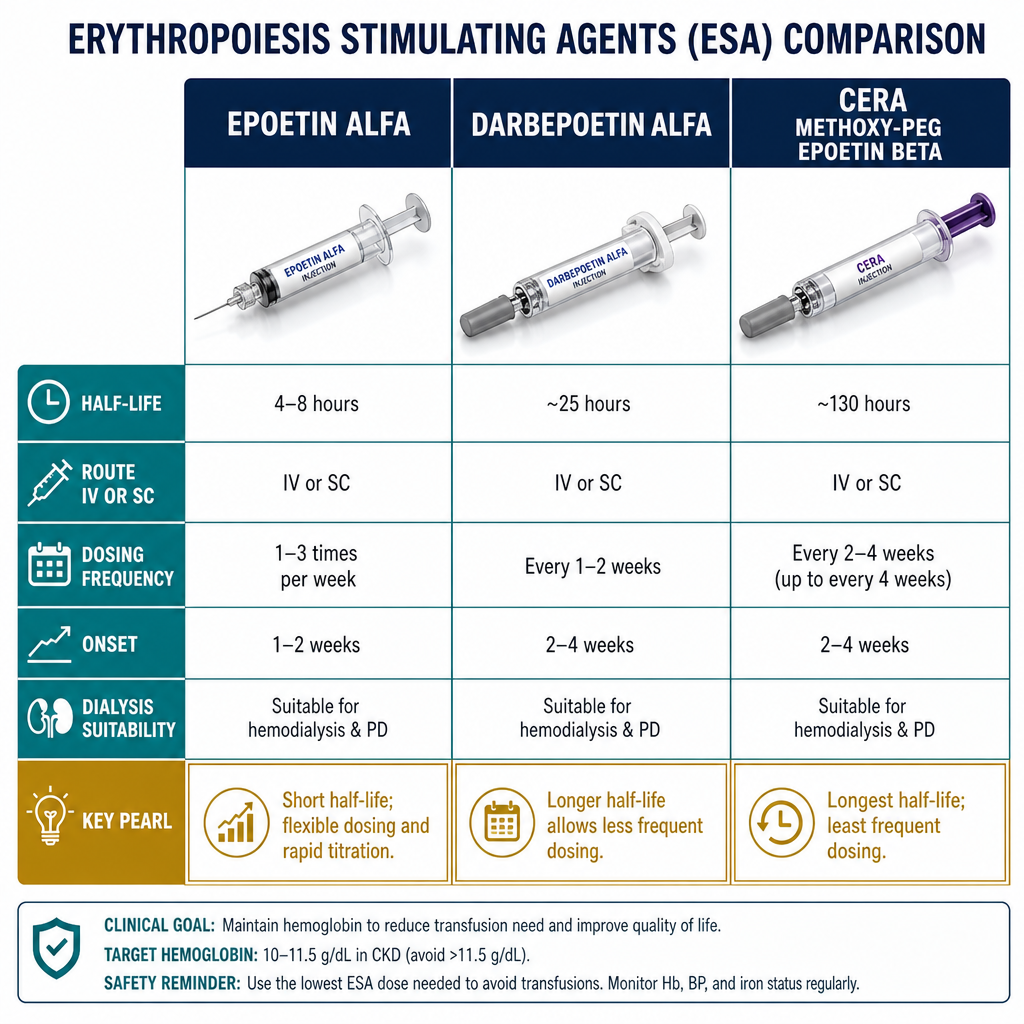
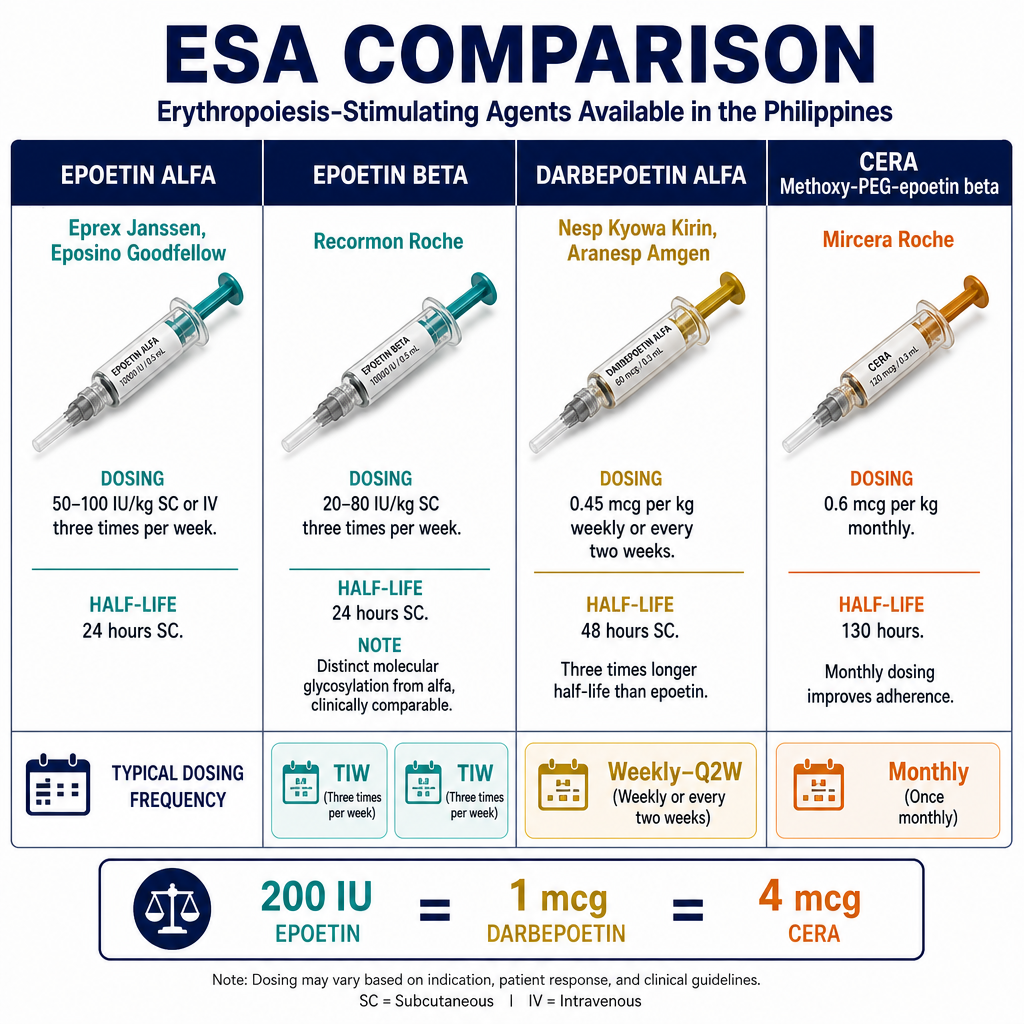
Add Recormon (epoetin beta), Nesp (darbepoetin alfa), and Ferrofer corrections
ESA agent updates throughout anemia-management.html:

Calculators (ERI Calculator + Monthly HD Checklist):
- Added Epoetin Beta — Recormon (IU) as separate dropdown option
- Updated Darbepoetin Alfa to show Nesp / Aranesp brand names
- CERA option now reads CERA — Mircera
- calcERI() and updateChecklist(): epo-beta treated same as epoetin (IU,
  no conversion needed) via || epo-beta condition
- ERI disclaimer updated to name all four agents with brand names

ESA Comparison Table (§6 ESA Therapy):
- Split combined epoetin alfa/beta row into two distinct rows:
  Epoetin Alfa (Eprex, Eposino) and Epoetin Beta (Recormon) with
  note on distinct glycosylation and unit-for-unit non-interchangeability
- Darbepoetin alfa row now shows Nesp (Kyowa Kirin) + Aranesp (Amgen)

IV Iron drug card:
- Iron Sucrose renamed from (Venofer®) to (Ferrofer® / Venofer® / Anema®)
  to reflect primary Philippines formulary branding

Patient Handout (EN/TL/CEB):
- ESA treatment section now lists brand names: Recormon, Eprex/Eposino,
  Nesp, Mircera for patient recognition at the pharmacy

ESA Comparison Image (GPT Image-2):
- Regenerated to show all four agents with Philippines brand names:
  Epoetin Alfa (Eprex/Eposino), Epoetin Beta (Recormon), Darbepoetin
  Alfa (Nesp/Aranesp), CERA (Mircera) with dosing frequency comparison

diff --git a/guides/anemia-management.html b/guides/anemia-management.html
@@ -1869,7 +1869,7 @@ function setGuideLang(lang) {
 
 <h3 style="font-size:15px;font-weight:700;color:var(--navy);margin:24px 0 14px;">IV Iron Formulations</h3>
 <div class="drug-card">
-<div class="drug-name">Iron Sucrose (Venofer®)</div>
+<div class="drug-name">Iron Sucrose (Ferrofer® / Venofer® / Anema®)</div>
 <div class="drug-row"><span class="drug-lbl">Dose (HD)</span><span class="drug-val">100 mg IV per dialysis session × 10 sessions (1,000 mg loading); maintenance 25–100 mg/session as needed</span></div>
 <div class="drug-row"><span class="drug-lbl">Dose (CKD ND/PD)</span><span class="drug-val">200–300 mg IV over 1.5–2 hours × 3–5 doses (cumulative 1,000 mg); maximum single dose 500 mg</span></div>
 <div class="drug-row"><span class="drug-lbl">Safety</span><span class="drug-val">Good; lower anaphylaxis risk than iron dextran; test dose not required</span></div>
@@ -1914,7 +1914,7 @@ function setGuideLang(lang) {
 <figure class="illus-panel" style="max-width:900px;margin:0 auto 28px;">
   <picture>
     <source srcset="../images/anemia-esa-comparison.webp" type="image/webp">
-    <img src="../images/anemia-esa-comparison.png" loading="lazy" width="1024" height="1024" alt="ESA Comparison — Epoetin Alfa vs Darbepoetin Alfa vs CERA: half-life, route, frequency, onset, dialysis suitability" style="border-radius:12px;display:block;width:100%;height:auto;">
+    <img src="../images/anemia-esa-comparison.png" loading="lazy" width="1024" height="1024" alt="ESA Comparison — Epoetin Alfa (Eprex/Eposino), Epoetin Beta (Recormon), Darbepoetin Alfa (Nesp/Aranesp), CERA (Mircera): half-life, frequency, starting dose, route, Philippines availability" style="border-radius:12px;display:block;width:100%;height:auto;">
   </picture>
 </figure>
 
@@ -1923,8 +1923,9 @@ function setGuideLang(lang) {
 <table class="tx-matrix">
 <thead><tr><th>Agent</th><th>Half-Life</th><th>Frequency</th><th>Starting Dose</th><th>Route</th><th>Notes</th></tr></thead>
 <tbody>
-<tr><td><strong>Epoetin alfa / beta</strong><br><small>(Eprex®, NeoRecormon®)</small></td><td>6–8 h IV; 24 h SC</td><td>3×/week</td><td>50–100 IU/kg SC or IV</td><td>SC preferred (ND/PD); IV (HD)</td><td>First-generation ESA; widely available; biosimilars available</td></tr>
-<tr><td><strong>Darbepoetin alfa</strong><br><small>(Aranesp®)</small></td><td>25 h IV; 48 h SC</td><td>Weekly or q2 weeks</td><td>0.45 µg/kg once weekly</td><td>SC or IV</td><td>~3× longer half-life; q2w dosing in stable patients</td></tr>
+<tr><td><strong>Epoetin Alfa</strong><br><small>Eprex® (Janssen), Eposino® (Goodfellow)</small></td><td>6–8 h IV; 24 h SC</td><td>2–3×/week</td><td>50–100 IU/kg SC or IV</td><td>SC preferred (ND/PD); IV (HD)</td><td>First-generation ESA; widely available in PH dialysis centers. Biosimilars available.</td></tr>
+<tr><td><strong>Epoetin Beta</strong><br><small>Recormon® (Roche)</small></td><td>6–8 h IV; 24 h SC</td><td>2–3×/week</td><td>20–80 IU/kg SC or IV 3×/week</td><td>SC preferred; IV during HD</td><td>Distinct glycosylation from alfa; same EPO receptor, comparable clinical efficacy. Available in 2,000 / 5,000 / 10,000 IU prefilled syringes. Not interchangeable unit-for-unit without physician confirmation.</td></tr>
+<tr><td><strong>Darbepoetin Alfa</strong><br><small>Nesp® (Kyowa Kirin), Aranesp® (Amgen)</small></td><td>25 h IV; 48 h SC</td><td>Weekly or q2 weeks</td><td>0.45 µg/kg once weekly</td><td>SC or IV</td><td>~3× longer half-life than epoetin; q2w dosing in stable patients. Nesp available in PH. Conversion: 200 IU epoetin = 1 µg darbepoetin.</td></tr>
 <tr><td><strong>Methoxy PEG-epoetin beta</strong><br><small>(CERA / Mircera®)</small></td><td>130 h SC</td><td>Monthly</td><td>0.6 µg/kg SC monthly</td><td>SC or IV</td><td>Monthly dosing → better adherence; conversion: 200 IU epoetin ≈ 1 µg darbepoetin ≈ 4 µg CERA</td></tr>
 <tr><td><strong>Biosimilar epoetin</strong></td><td>Similar to originator</td><td>3×/week</td><td>Same as reference</td><td>SC or IV</td><td>Non-interchangeable without physician oversight; PRCA risk same as originator</td></tr>
 </tbody>
@@ -2409,9 +2410,10 @@ function setGuideLang(lang) {
         <label>ESA Type</label>
         <select id="chk-esa-type" onchange="updateChecklist()">
           <option value="">Select…</option>
-          <option value="epoetin">Epoetin Alfa (IU)</option>
-          <option value="darbe">Darbepoetin Alfa (µg)</option>
-          <option value="cera">CERA / Mircera (µg)</option>
+          <option value="epoetin">Epoetin Alfa — Eprex / Eposino (IU)</option>
+          <option value="epo-beta">Epoetin Beta — Recormon (IU)</option>
+          <option value="darbe">Darbepoetin Alfa — Nesp / Aranesp (µg)</option>
+          <option value="cera">CERA — Mircera (µg)</option>
           <option value="none">Not on ESA</option>
         </select>
       </div>
@@ -2507,11 +2509,12 @@ function setGuideLang(lang) {
         <label>ESA Type</label>
         <select id="eri-esa-type" onchange="calcERI()">
           <option value="">Select ESA…</option>
-          <option value="epoetin">Epoetin Alfa (IU)</option>
-          <option value="darbe">Darbepoetin Alfa (µg)</option>
-          <option value="cera">CERA / Mircera (µg)</option>
+          <option value="epoetin">Epoetin Alfa — Eprex / Eposino (IU)</option>
+          <option value="epo-beta">Epoetin Beta — Recormon (IU)</option>
+          <option value="darbe">Darbepoetin Alfa — Nesp / Aranesp (µg)</option>
+          <option value="cera">CERA — Mircera (µg)</option>
         </select>
-        <div class="field-hint">Darbepoetin and CERA are converted to IU equivalents (1 µg = 200 IU)</div>
+        <div class="field-hint">Epoetin alfa/beta: enter IU. Darbepoetin and CERA: enter µg → converted to IU (×200)</div>
       </div>
       <div class="calc-field">
         <label id="eri-dose-label">Dose per Administration</label>
@@ -2562,7 +2565,7 @@ function setGuideLang(lang) {
       <div class="calc-verdict-text" id="eri-verdict"></div>
       <div class="calc-action-text" id="eri-action"></div>
     </div>
-    <p class="calc-disclaimer">⚕ ERI = (Total weekly ESA dose in IU ÷ weight in kg) ÷ Hgb in g/dL. Darbepoetin and CERA converted using 1 µg = 200 IU epoetin equivalent. ERI &gt;10 IU/kg/week/g/dL is associated with increased cardiovascular mortality and hospitalizations (Kalantar-Zadeh et al.). Interpret alongside clinical context. For educational use only — dosing decisions require physician assessment.</p>
+    <p class="calc-disclaimer">⚕ ERI = (Total weekly ESA dose in IU ÷ weight in kg) ÷ Hgb in g/dL. Epoetin alfa (Eprex, Eposino) and epoetin beta (Recormon) are both IU-based — enter dose directly. Darbepoetin alfa (Nesp, Aranesp) and CERA (Mircera) are entered in µg and converted using 1 µg = 200 IU epoetin equivalent. ERI &gt;10 IU/kg/week/g/dL is associated with increased cardiovascular mortality and hospitalizations (Kalantar-Zadeh et al.). Interpret alongside clinical context. For educational use only — dosing decisions require physician assessment.</p>
   </div>
 </div>
 <div class="feature-card" style="padding:28px;grid-column:1/-1;">
@@ -2739,7 +2742,7 @@ function setGuideLang(lang) {
         <div style="font-size:14px;font-weight:700;color:var(--navy);margin-bottom:10px;">💊 Your Treatment Plan</div>
         <div style="font-size:13px;color:#2c3340;line-height:1.8;">
           <p style="margin:0 0 8px;"><strong style="color:var(--teal);">Iron supplements</strong> — Oral iron tablets or IV iron drip given at dialysis. Iron feeds your red blood cells.</p>
-          <p style="margin:0 0 8px;"><strong style="color:var(--teal);">EPO injections (ESA)</strong> — A medicine that signals your bone marrow to make red blood cells, replacing what your kidneys can't produce.</p>
+          <p style="margin:0 0 8px;"><strong style="color:var(--teal);">EPO injections (ESA)</strong> — A medicine that signals your bone marrow to make red blood cells, replacing what your kidneys can't produce. Common brands: <strong>Recormon</strong> (epoetin beta), <strong>Eprex</strong> / <strong>Eposino</strong> (epoetin alfa), <strong>Nesp</strong> (darbepoetin alfa, weekly), <strong>Mircera</strong> (monthly injection).</p>
           <p style="margin:0;"><strong style="color:var(--teal);">Iron-rich foods</strong> — Red meat, dark leafy greens, beans, fortified cereals. Ask your dietitian for a kidney-safe food list.</p>
         </div>
       </div>
@@ -2784,7 +2787,7 @@ function setGuideLang(lang) {
         <div style="font-size:14px;font-weight:700;color:var(--navy);margin-bottom:10px;">💊 Ang Iyong Plano sa Paggamot</div>
         <div style="font-size:13px;color:#2c3340;line-height:1.8;">
           <p style="margin:0 0 8px;"><strong style="color:var(--teal);">Mga supplement ng iron</strong> — Oral na tablet ng iron o IV drip ng iron sa dialysis. Pinakain ng iron ang iyong mga pulang selula.</p>
-          <p style="margin:0 0 8px;"><strong style="color:var(--teal);">Mga iniksyon ng EPO (ESA)</strong> — Gamot na nagsasabi sa iyong bone marrow na gumawa ng mga pulang selula, pinapalitan ang hindi na magawa ng iyong mga bato.</p>
+          <p style="margin:0 0 8px;"><strong style="color:var(--teal);">Mga iniksyon ng EPO (ESA)</strong> — Gamot na nagsasabi sa iyong bone marrow na gumawa ng mga pulang selula, pinapalitan ang hindi na magawa ng iyong mga bato. Mga pangalang brand: <strong>Recormon</strong>, <strong>Eprex</strong>, <strong>Nesp</strong>, <strong>Mircera</strong>.</p>
           <p style="margin:0;"><strong style="color:var(--teal);">Mga pagkaing mayaman sa iron</strong> — Pulang karne, madilim na gulay, beans, fortified na cereal. Humingi sa iyong diyetisyano ng ligtas na listahan para sa bato.</p>
         </div>
       </div>
@@ -2829,7 +2832,7 @@ function setGuideLang(lang) {
         <div style="font-size:14px;font-weight:700;color:var(--navy);margin-bottom:10px;">💊 Ang Imong Plano sa Pagtambal</div>
         <div style="font-size:13px;color:#2c3340;line-height:1.8;">
           <p style="margin:0 0 8px;"><strong style="color:var(--teal);">Mga supplement sa iron</strong> — Oral nga tablet sa iron o IV drip sa iron sa dialysis. Ang iron nagpakaon sa imong mga pulang selula.</p>
-          <p style="margin:0 0 8px;"><strong style="color:var(--teal);">Mga injection sa EPO (ESA)</strong> — Tambal nga nagsinyas sa imong bone marrow nga maghimo og mga pulang selula, nagpuli sa dili na mahimo sa imong mga kidney.</p>
+          <p style="margin:0 0 8px;"><strong style="color:var(--teal);">Mga injection sa EPO (ESA)</strong> — Tambal nga nagsinyas sa imong bone marrow nga maghimo og mga pulang selula, nagpuli sa dili na mahimo sa imong mga kidney. Mga brand: <strong>Recormon</strong>, <strong>Eprex</strong>, <strong>Nesp</strong>, <strong>Mircera</strong>.</p>
           <p style="margin:0;"><strong style="color:var(--teal);">Mga pagkaon nga dato sa iron</strong> — Pula nga karne, mapurog nga dahon, beans, fortified nga cereal. Pangayo sa imong diyetisyan og listahan nga luwas alang sa kidney.</p>
         </div>
       </div>
@@ -3196,7 +3199,7 @@ function updateChecklist(){
   const eriAlert    = document.getElementById('chk-eri-alert');
 
   if(esaT && esaT !== 'none' && !isNaN(dose) && !isNaN(freq) && !isNaN(wt) && !isNaN(hgb) && wt > 0 && hgb > 0){
-    const iuPerAdmin = (esaT === 'epoetin') ? dose : dose * 200;
+    const iuPerAdmin = (esaT === 'epoetin' || esaT === 'epo-beta') ? dose : dose * 200;
     const weeklyIuKg = (iuPerAdmin * freq) / wt;
     const eri        = weeklyIuKg / hgb;
     eriWeeklyEl.textContent = Math.round(weeklyIuKg).toLocaleString() + ' IU/kg/wk';
@@ -3253,12 +3256,12 @@ function calcERI(){
   // Update dose label / hint based on ESA type
   const doseLabel = document.getElementById('eri-dose-label');
   const doseHint  = document.getElementById('eri-dose-hint');
-  if (esaType === 'epoetin') {
+  if (esaType === 'epoetin' || esaType === 'epo-beta') {
     doseLabel.textContent = 'Dose per Administration (IU)';
-    doseHint.textContent  = 'Enter dose in International Units (IU). E.g. 4000 IU';
+    doseHint.textContent  = 'Enter dose in International Units (IU). E.g. 4000 IU (epoetin alfa/beta are both IU-based)';
   } else if (esaType === 'darbe' || esaType === 'cera') {
     doseLabel.textContent = 'Dose per Administration (µg)';
-    doseHint.textContent  = 'Enter dose in micrograms (µg). Will be converted to IU (×200)';
+    doseHint.textContent  = 'Enter dose in micrograms (µg). Converted to IU equivalent (×200) for ERI calculation';
   }
 
   // Need all fields to proceed
@@ -3267,8 +3270,8 @@ function calcERI(){
     return;
   }
 
-  // Convert to IU equivalents
-  const iu_per_admin = (esaType === 'epoetin') ? dose : dose * 200;
+  // Convert to IU equivalents (epoetin alfa and beta are both IU-based; darbe/CERA in µg ×200)
+  const iu_per_admin = (esaType === 'epoetin' || esaType === 'epo-beta') ? dose : dose * 200;
 
   // Weekly IU total
   const weekly_iu = iu_per_admin * freq;
